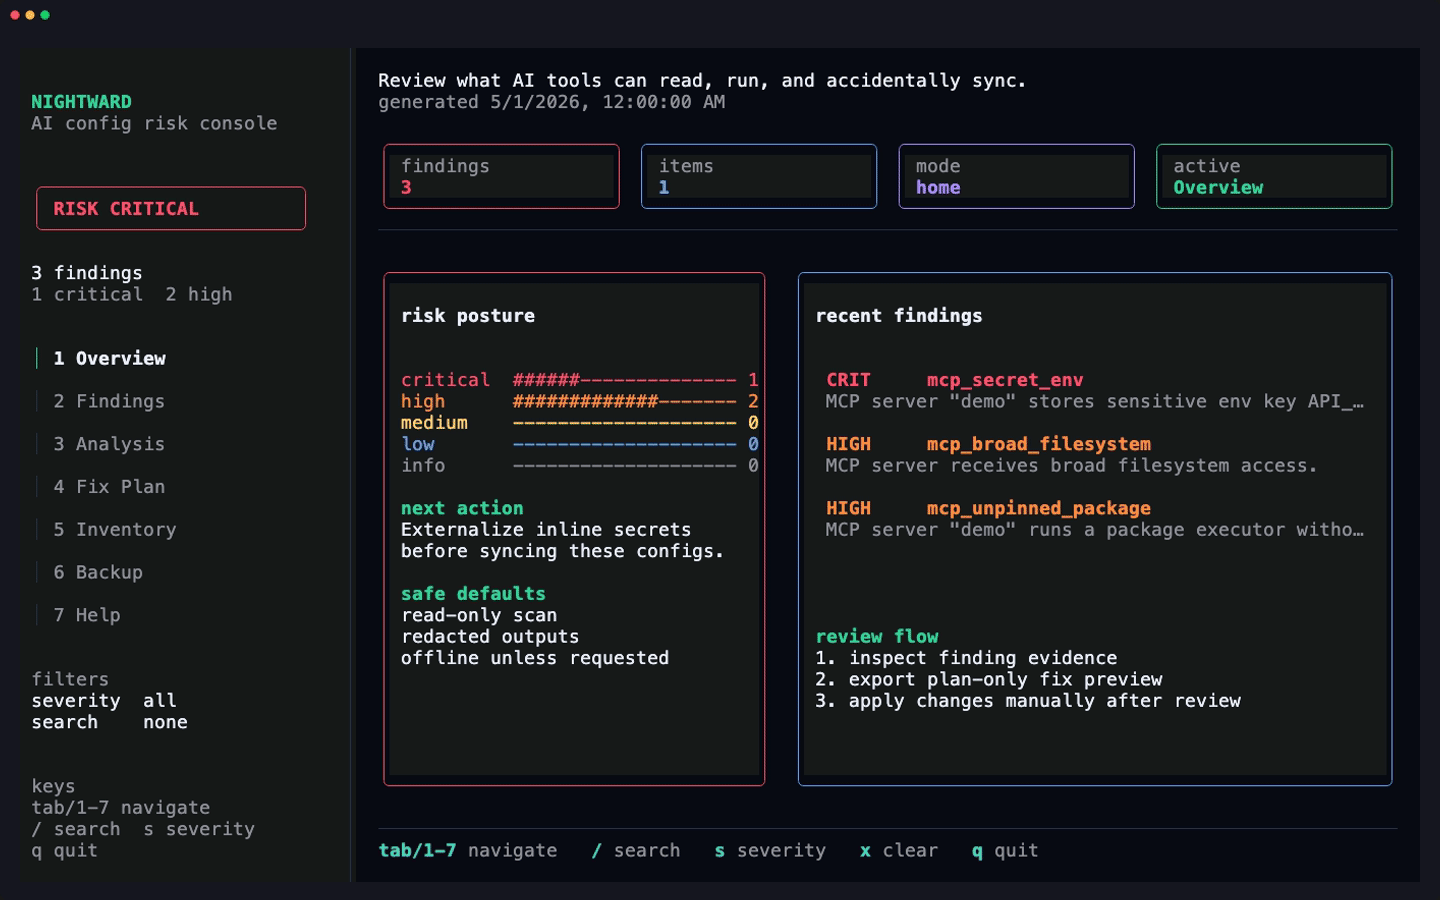
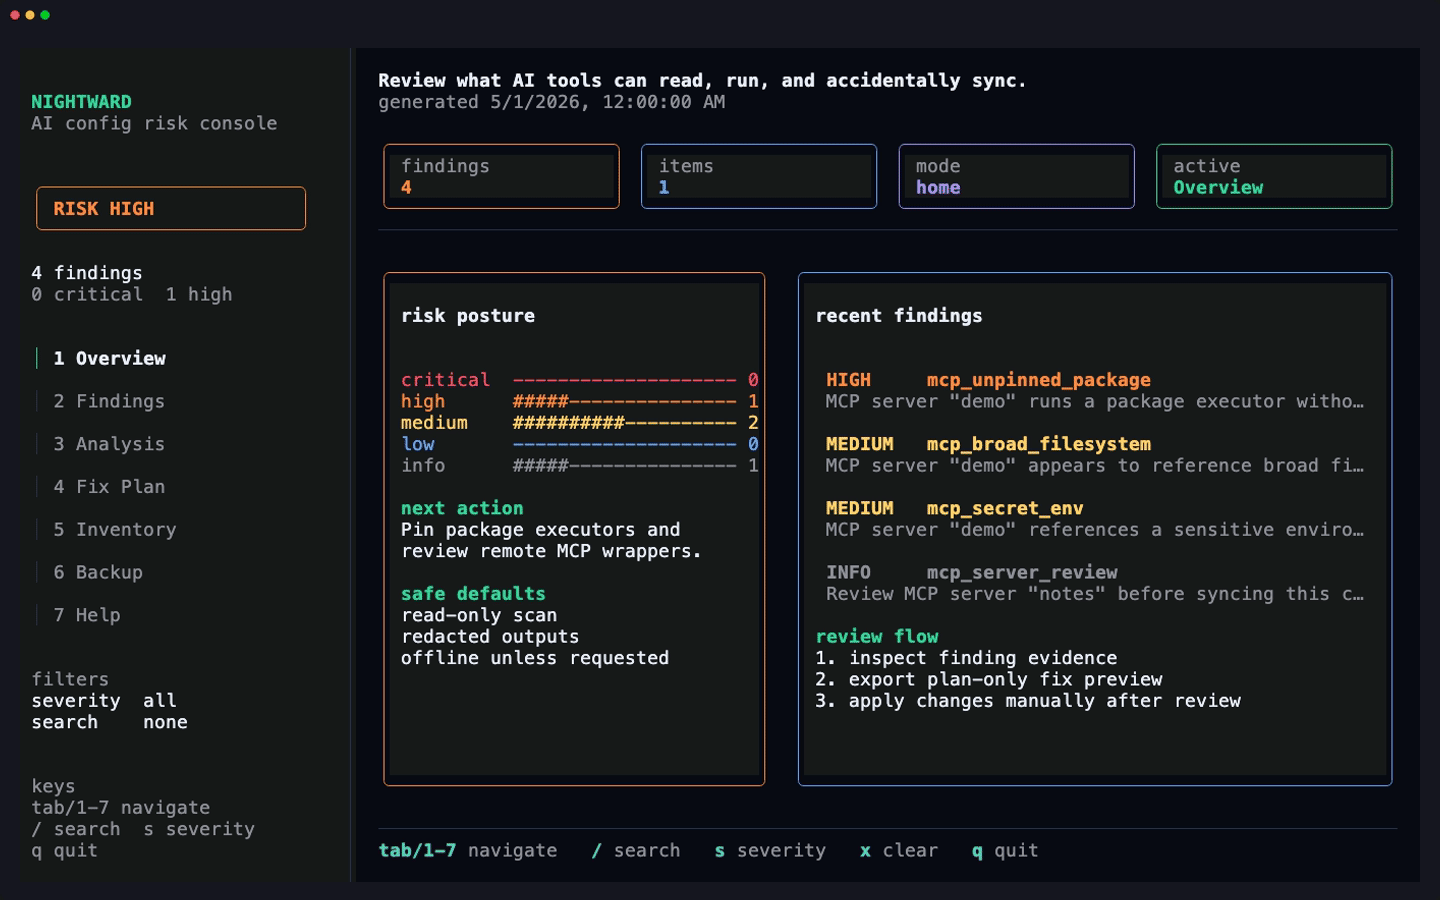
fix(tui): align opentui dashboard visuals

diff --git a/site/public/demo/nightward-sample-report.html b/site/public/demo/nightward-sample-report.html
@@ -1,1 +1,1 @@
-<!doctype html><html lang="en"><head><meta charset="utf-8"><meta name="viewport" content="width=device-width,initial-scale=1"><title>Nightward Report</title><style>body{margin:0;background:#081012;color:#ecfeff;font:15px/1.5 system-ui,-apple-system,BlinkMacSystemFont,Segoe UI,sans-serif}main{max-width:1180px;margin:0 auto;padding:32px}a{color:#67e8f9}.hero{display:grid;gap:16px;margin-bottom:28px}.kpis{display:grid;grid-template-columns:repeat(auto-fit,minmax(150px,1fr));gap:12px}.kpi,.panel{border:1px solid #1f3a3d;background:#0c171a;border-radius:10px;padding:16px}.label{color:#93a3a6;font-size:12px;text-transform:uppercase;letter-spacing:.08em}.value{font-size:28px;font-weight:800}.finding{border-left:4px solid #67e8f9}.critical{border-left-color:#ff4d4f}.high{border-left-color:#ff8c42}.medium{border-left-color:#f5c542}code,pre{background:#132226;border-radius:6px;padding:2px 5px}pre{white-space:pre-wrap;padding:12px;overflow:auto}.grid{display:grid;grid-template-columns:repeat(auto-fit,minmax(320px,1fr));gap:14px}.muted{color:#93a3a6}</style></head><body><main><section class="hero"><p class="label">Nightward local-first audit</p><h1>AI agent and dotfiles safety report</h1><p class="muted">Generated 2026-05-01 00:00:00 UTC on nightward-fixture</p><div class="kpis"><div class="kpi"><div class="label">Findings</div><div class="value">3</div></div><div class="kpi"><div class="label">Items</div><div class="value">1</div></div><div class="kpi"><div class="label">Signals</div><div class="value">3</div></div></div></section><section class="grid"><article class="panel finding critical"><p class="label">Critical / mcp_secret_env</p><h2>MCP server "demo" stores sensitive env key API_TOKEN inline.</h2><p>Move the value to a local secret source and keep only the variable name in portable config.</p><details><summary>Evidence</summary><pre>env.API_TOKEN=${API_TOKEN}</pre></details></article><article class="panel finding high"><p class="label">High / mcp_broad_filesystem</p><h2>MCP server receives broad filesystem access.</h2><p>Narrow filesystem arguments to explicit project or vault directories.</p><details><summary>Evidence</summary><pre>npx -y @modelcontextprotocol/server-filesystem $HOME </pre></details></article><article class="panel finding high"><p class="label">High / mcp_unpinned_package</p><h2>MCP server "demo" runs a package executor without an obvious pinned package version.</h2><p>Replace unversioned or @latest package references with a reviewed explicit version.</p><details><summary>Evidence</summary><pre>command=npx args=-y @modelcontextprotocol/server-filesystem $HOME url=</pre></details></article></section><section class="panel"><h2>Fix Plan</h2><p><strong>Narrow filesystem access</strong> <span class="muted">1 findings</span></p><p><strong>Externalize inline secrets</strong> <span class="muted">1 findings</span></p><p><strong>Pin package executors</strong> <span class="muted">1 findings</span></p></section></main></body></html>
+<!doctype html><html lang="en"><head><meta charset="utf-8"><meta name="viewport" content="width=device-width,initial-scale=1"><title>Nightward Report</title><style>body{margin:0;background:#081012;color:#ecfeff;font:15px/1.5 system-ui,-apple-system,BlinkMacSystemFont,Segoe UI,sans-serif}main{max-width:1180px;margin:0 auto;padding:32px}a{color:#67e8f9}.hero{display:grid;gap:16px;margin-bottom:28px}.kpis{display:grid;grid-template-columns:repeat(auto-fit,minmax(150px,1fr));gap:12px}.kpi,.panel{border:1px solid #1f3a3d;background:#0c171a;border-radius:10px;padding:16px}.label{color:#93a3a6;font-size:12px;text-transform:uppercase;letter-spacing:.08em}.value{font-size:28px;font-weight:800}.finding{border-left:4px solid #67e8f9}.critical{border-left-color:#ff4d4f}.high{border-left-color:#ff8c42}.medium{border-left-color:#f5c542}code,pre{background:#132226;border-radius:6px;padding:2px 5px}pre{white-space:pre-wrap;padding:12px;overflow:auto}.grid{display:grid;grid-template-columns:repeat(auto-fit,minmax(320px,1fr));gap:14px}.muted{color:#93a3a6}</style></head><body><main><section class="hero"><p class="label">Nightward local-first audit</p><h1>AI agent and dotfiles safety report</h1><p class="muted">Generated 2026-05-01 00:00:00 UTC on nightward-fixture</p><div class="kpis"><div class="kpi"><div class="label">Findings</div><div class="value">4</div></div><div class="kpi"><div class="label">Items</div><div class="value">1</div></div><div class="kpi"><div class="label">Signals</div><div class="value">4</div></div></div></section><section class="grid"><article class="panel finding high"><p class="label">High / mcp_unpinned_package</p><h2>MCP server "demo" runs a package executor without an obvious pinned package version.</h2><p>Replace unversioned or @latest package references with a reviewed explicit version.</p><details><summary>Evidence</summary><pre>command=npx args=-y @modelcontextprotocol/server-filesystem $HOME url=</pre></details></article><article class="panel finding medium"><p class="label">Medium / mcp_broad_filesystem</p><h2>MCP server "demo" appears to reference broad filesystem access.</h2><p>Narrow filesystem arguments to explicit project or vault directories.</p><details><summary>Evidence</summary><pre>npx -y @modelcontextprotocol/server-filesystem $HOME </pre></details></article><article class="panel finding medium"><p class="label">Medium / mcp_secret_env</p><h2>MCP server "demo" references a sensitive environment key.</h2><p>Keep secret values outside dotfiles and document required env names only.</p><details><summary>Evidence</summary><pre>env.API_TOKEN=${API_TOKEN}</pre></details></article><article class="panel finding info"><p class="label">Info / mcp_server_review</p><h2>Review MCP server "notes" before syncing this config.</h2><p>Confirm this server is intentional and safe for the target machine before syncing.</p><details><summary>Evidence</summary><pre>node ./tools/notes-mcp.js </pre></details></article></section><section class="panel"><h2>Fix Plan</h2><p><strong>Narrow filesystem access</strong> <span class="muted">1 findings</span></p><p><strong>Externalize inline secrets</strong> <span class="muted">1 findings</span></p><p><strong>Review finding</strong> <span class="muted">1 findings</span></p><p><strong>Pin package executors</strong> <span class="muted">1 findings</span></p></section></main></body></html>

diff --git a/crates/nightward-core/src/inventory.rs b/crates/nightward-core/src/inventory.rs
@@ -395,6 +395,7 @@ fn mcp_server_entries(value: &Value) -> Vec<(String, &Value)> {
 }
 
 fn inspect_server(report: &mut Report, tool: &str, path: &Path, server: &str, config: &Value) {
+    let finding_start = report.findings.len();
     let command = str_field(config, &["command", "cmd"]);
     let args = array_field(config, &["args", "arguments"]);
     let url = str_field(config, &["url", "endpoint"]);
@@ -460,23 +461,45 @@ fn inspect_server(report: &mut Report, tool: &str, path: &Path, server: &str, co
 
     for (key, value) in object_entries(config, &["env"]) {
         if secret_key(&key) || secret_value(&value) {
+            let value_is_inline_secret = secret_value(&value) || !env_reference(&value);
+            let severity = if value_is_inline_secret {
+                RiskLevel::Critical
+            } else {
+                RiskLevel::Medium
+            };
+            let message = if value_is_inline_secret {
+                format!(
+                    "MCP server \"{}\" stores sensitive env key {} inline.",
+                    server, key
+                )
+            } else {
+                format!(
+                    "MCP server \"{}\" references a sensitive environment key.",
+                    server
+                )
+            };
+            let action = if value_is_inline_secret {
+                "Move the value to a local secret source and keep only the variable name in portable config."
+            } else {
+                "Keep secret values outside dotfiles and document required env names only."
+            };
             push_finding(
                 report,
                 tool,
                 path,
                 server,
                 "mcp_secret_env",
-                RiskLevel::Critical,
-                &format!("MCP server \"{}\" stores sensitive env key {} inline.", server, key),
-                &format!("env.{}={}", key, redact_text(&value)),
-                "Move the value to a local secret source and keep only the variable name in portable config.",
+                severity,
+                &message,
+                &format!("env.{}={}", key, redact_secret_field_value(&value)),
+                action,
                 FixKind::ExternalizeSecret,
                 Some(PatchHint {
                     kind: Some(FixKind::ExternalizeSecret),
                     package: String::new(),
                     env_key: key,
                     header_key: String::new(),
-                    inline_secret: true,
+                    inline_secret: value_is_inline_secret,
                     direct_command: String::new(),
                     direct_args: Vec::new(),
                     replacement: String::new(),
@@ -498,7 +521,7 @@ fn inspect_server(report: &mut Report, tool: &str, path: &Path, server: &str, co
                     "MCP server \"{}\" stores sensitive header key {} inline.",
                     server, key
                 ),
-                &format!("headers.{}={}", key, redact_text(&value)),
+                &format!("headers.{}={}", key, redact_secret_field_value(&value)),
                 "Move the header value into a local environment variable or secret manager.",
                 FixKind::ExternalizeSecret,
                 Some(PatchHint {
@@ -538,8 +561,11 @@ fn inspect_server(report: &mut Report, tool: &str, path: &Path, server: &str, co
             path,
             server,
             "mcp_broad_filesystem",
-            RiskLevel::High,
-            "MCP server receives broad filesystem access.",
+            RiskLevel::Medium,
+            &format!(
+                "MCP server \"{}\" appears to reference broad filesystem access.",
+                server
+            ),
             &redact_text(&combined),
             "Narrow filesystem arguments to explicit project or vault directories.",
             FixKind::NarrowFilesystem,
@@ -557,6 +583,24 @@ fn inspect_server(report: &mut Report, tool: &str, path: &Path, server: &str, co
             "MCP server references a local credential path.",
             &redact_text(&combined),
             "Keep credential paths out of portable config and document local setup separately.",
+            FixKind::ManualReview,
+            None,
+        );
+    }
+    if report.findings.len() == finding_start {
+        push_finding(
+            report,
+            tool,
+            path,
+            server,
+            "mcp_server_review",
+            RiskLevel::Info,
+            &format!(
+                "Review MCP server \"{}\" before syncing this config.",
+                server
+            ),
+            &redact_text(&combined),
+            "Confirm this server is intentional and safe for the target machine before syncing.",
             FixKind::ManualReview,
             None,
         );
@@ -733,6 +777,20 @@ fn secret_value(value: &str) -> bool {
         .is_match(value)
 }
 
+fn env_reference(value: &str) -> bool {
+    Regex::new(r"^\$\{?[A-Za-z_][A-Za-z0-9_]*\}?$")
+        .expect("valid regex")
+        .is_match(value.trim())
+}
+
+fn redact_secret_field_value(value: &str) -> String {
+    if env_reference(value) {
+        value.trim().to_string()
+    } else {
+        "[REDACTED]".to_string()
+    }
+}
+
 pub fn redact_text(value: &str) -> String {
     let assignment = Regex::new(r#"(?i)((?:token|secret|password|passwd|api[_-]?key|auth|credential|private[_-]?key)[\w.-]*\s*[:=]\s*)(["']?)[^"',\s}]+"#)
         .expect("valid regex");
@@ -823,6 +881,30 @@ mod tests {
     }
 
     #[test]
+    fn redacts_secret_key_values_even_when_token_shape_is_unknown() {
+        let dir = tempfile::tempdir().unwrap();
+        let config = dir.path().join(".claude.json");
+        let header_key = ["CONTEXT7_", "API_", "KEY"].concat();
+        let header_value = ["ctx", "7sk-", "7f4e75c9-e4f3-4e18-b22f-832367f85b48"].concat();
+        fs::write(
+            &config,
+            format!(
+                r#"{{"mcpServers":{{"remote":{{"url":"https://example.test/mcp","headers":{{"{header_key}":"{header_value}"}}}}}}}}"#
+            ),
+        )
+        .unwrap();
+
+        let report = scan_home(dir.path()).unwrap();
+        let finding = report
+            .findings
+            .iter()
+            .find(|finding| finding.rule == "mcp_secret_header")
+            .expect("secret header finding");
+        assert!(finding.evidence.contains("[REDACTED]"));
+        assert!(!finding.evidence.contains(&header_value));
+    }
+
+    #[test]
     fn parses_toml_mcp_servers() {
         let dir = tempfile::tempdir().unwrap();
         let config = dir.path().join(".codex");
@@ -841,5 +923,28 @@ args = ["package", "http://127.0.0.1:3000"]
             .findings
             .iter()
             .any(|finding| finding.rule == "mcp_local_endpoint"));
+    }
+
+    #[test]
+    fn adds_advisory_review_for_clean_mcp_server() {
+        let dir = tempfile::tempdir().unwrap();
+        let config = dir.path().join(".codex");
+        fs::create_dir_all(&config).unwrap();
+        fs::write(
+            config.join("config.toml"),
+            r#"[mcp_servers.notes]
+command = "node"
+args = ["./tools/notes-mcp.js"]
+"#,
+        )
+        .unwrap();
+
+        let report = scan_home(dir.path()).unwrap();
+        assert!(report
+            .findings
+            .iter()
+            .any(|finding| finding.rule == "mcp_server_review"
+                && finding.severity == RiskLevel::Info
+                && finding.server == "notes"));
     }
 }

diff --git a/crates/nightward-cli/src/tui.rs b/crates/nightward-cli/src/tui.rs
@@ -210,7 +210,7 @@ impl<'a> TuiState<'a> {
             area.x,
             area.y,
             "Review what AI tools can read, run, and accidentally sync.",
-            Style::fg(self.palette.white),
+            Style::fg(self.palette.white).with_bold(),
         );
         draw_text(
             buffer,
@@ -631,12 +631,12 @@ impl<'a> TuiState<'a> {
             buffer,
             area.x + 2,
             area.y + 2,
-            "SEV",
+            "SEVERITY",
             Style::fg(self.palette.muted),
         );
         draw_text(
             buffer,
-            area.x + 8,
+            area.x + 12,
             area.y + 2,
             "RULE",
             Style::fg(self.palette.muted),
@@ -672,9 +672,9 @@ impl<'a> TuiState<'a> {
             );
             draw_text(
                 buffer,
-                area.x + 8,
+                area.x + 12,
                 row,
-                &truncate(&finding.rule, area.w.saturating_sub(25) as usize),
+                &truncate(&finding.rule, area.w.saturating_sub(29) as usize),
                 Style::fg(if selected {
                     self.palette.white
                 } else {
@@ -998,9 +998,9 @@ fn severity_color(palette: &Palette, risk: RiskLevel) -> Rgba {
 
 fn severity_badge(risk: RiskLevel) -> &'static str {
     match risk {
-        RiskLevel::Critical => "CRIT",
+        RiskLevel::Critical => "CRITICAL",
         RiskLevel::High => "HIGH",
-        RiskLevel::Medium => "MED",
+        RiskLevel::Medium => "MEDIUM",
         RiskLevel::Low => "LOW",
         RiskLevel::Info => "INFO",
     }
@@ -1120,7 +1120,7 @@ mod tests {
 
     #[test]
     fn severity_labels_are_short() {
-        assert_eq!(severity_badge(RiskLevel::Critical), "CRIT");
+        assert_eq!(severity_badge(RiskLevel::Critical), "CRITICAL");
         assert_eq!(severity_badge(RiskLevel::Info), "INFO");
     }
 

diff --git a/crates/nightward-core/src/rules.rs b/crates/nightward-core/src/rules.rs
@@ -49,7 +49,7 @@ pub fn all_rules() -> Vec<Rule> {
         },
         Rule {
             id: "mcp_broad_filesystem",
-            severity: RiskLevel::High,
+            severity: RiskLevel::Medium,
             fix_kind: FixKind::NarrowFilesystem,
             title: "MCP server can access a broad filesystem path",
             docs_url: "https://jsonbored.github.io/nightward/guide/mcp-security",
@@ -62,10 +62,17 @@ pub fn all_rules() -> Vec<Rule> {
             docs_url: "https://jsonbored.github.io/nightward/guide/privacy-model",
         },
         Rule {
-            id: "mcp_unknown_command",
+            id: "mcp_server_review",
             severity: RiskLevel::Info,
             fix_kind: FixKind::ManualReview,
             title: "MCP server should be reviewed",
+            docs_url: "https://jsonbored.github.io/nightward/reference/rules",
+        },
+        Rule {
+            id: "mcp_unknown_command",
+            severity: RiskLevel::Info,
+            fix_kind: FixKind::ManualReview,
+            title: "MCP server has an unsupported command shape",
             docs_url: "https://jsonbored.github.io/nightward/reference/rules",
         },
         Rule {

diff --git a/site/reference/rules.md b/site/reference/rules.md
@@ -9,8 +9,9 @@ This page is generated from `nw rules list --json`.
 | `mcp_unpinned_package` | high | [docs](https://jsonbored.github.io/nightward/guide/mcp-security) | `pin-package` | MCP server runs a package executor without an obvious pin |
 | `mcp_shell_wrapper` | high | [docs](https://jsonbored.github.io/nightward/guide/mcp-security) | `replace-shell-wrapper` | MCP server runs through a shell wrapper |
 | `mcp_local_endpoint` | medium | [docs](https://jsonbored.github.io/nightward/guide/mcp-security) | `manual-review` | MCP server references a machine-local endpoint |
-| `mcp_broad_filesystem` | high | [docs](https://jsonbored.github.io/nightward/guide/mcp-security) | `narrow-filesystem` | MCP server can access a broad filesystem path |
+| `mcp_broad_filesystem` | medium | [docs](https://jsonbored.github.io/nightward/guide/mcp-security) | `narrow-filesystem` | MCP server can access a broad filesystem path |
 | `mcp_local_token_path` | high | [docs](https://jsonbored.github.io/nightward/guide/privacy-model) | `manual-review` | MCP server references a local credential path |
-| `mcp_unknown_command` | info | [docs](https://jsonbored.github.io/nightward/reference/rules) | `manual-review` | MCP server should be reviewed |
+| `mcp_server_review` | info | [docs](https://jsonbored.github.io/nightward/reference/rules) | `manual-review` | MCP server should be reviewed |
+| `mcp_unknown_command` | info | [docs](https://jsonbored.github.io/nightward/reference/rules) | `manual-review` | MCP server has an unsupported command shape |
 | `config_parse_failed` | medium | [docs](https://jsonbored.github.io/nightward/use/troubleshooting) | `manual-review` | Nightward could not parse a config file |
 | `config_symlink` | info | [docs](https://jsonbored.github.io/nightward/guide/privacy-model) | `manual-review` | Config file is a symbolic link |

diff --git a/docs/remediation.md b/docs/remediation.md
@@ -61,6 +61,12 @@ Replace simple shell passthrough wrappers with direct executable invocation. Rev
 
 Replace broad filesystem mounts with explicit project or data paths after confirming the server's real access requirement.
 
+### mcp_server_review
+
+Confirm advisory MCP servers are intentional, documented, and safe to sync before
+moving them into portable dotfiles. Nightward collapses this advisory when the
+same server already has a stronger finding.
+
 ### mcp_unknown_command
 
 Review unsupported MCP server shapes manually. Add an explicit command where the client supports it, or open an adapter issue with a redacted config example.

diff --git a/README.md b/README.md
@@ -443,7 +443,7 @@ cargo run --bin nw -- scan --json
 cargo run --bin nw -- scan --workspace . --json
 cargo run --bin nw -- scan --json | jq '.summary'
 cargo run --bin nw -- findings list --json
-cargo run --bin nw -- findings list --json | jq '[.[] | select(.rule=="mcp_unknown_command")]'
+cargo run --bin nw -- findings list --json | jq '[.[] | select(.rule=="mcp_server_review")]'
 cargo run --bin nw -- analyze --all --json
 cargo run --bin nw -- providers doctor --json
 cargo run --bin nw -- rules list --json
